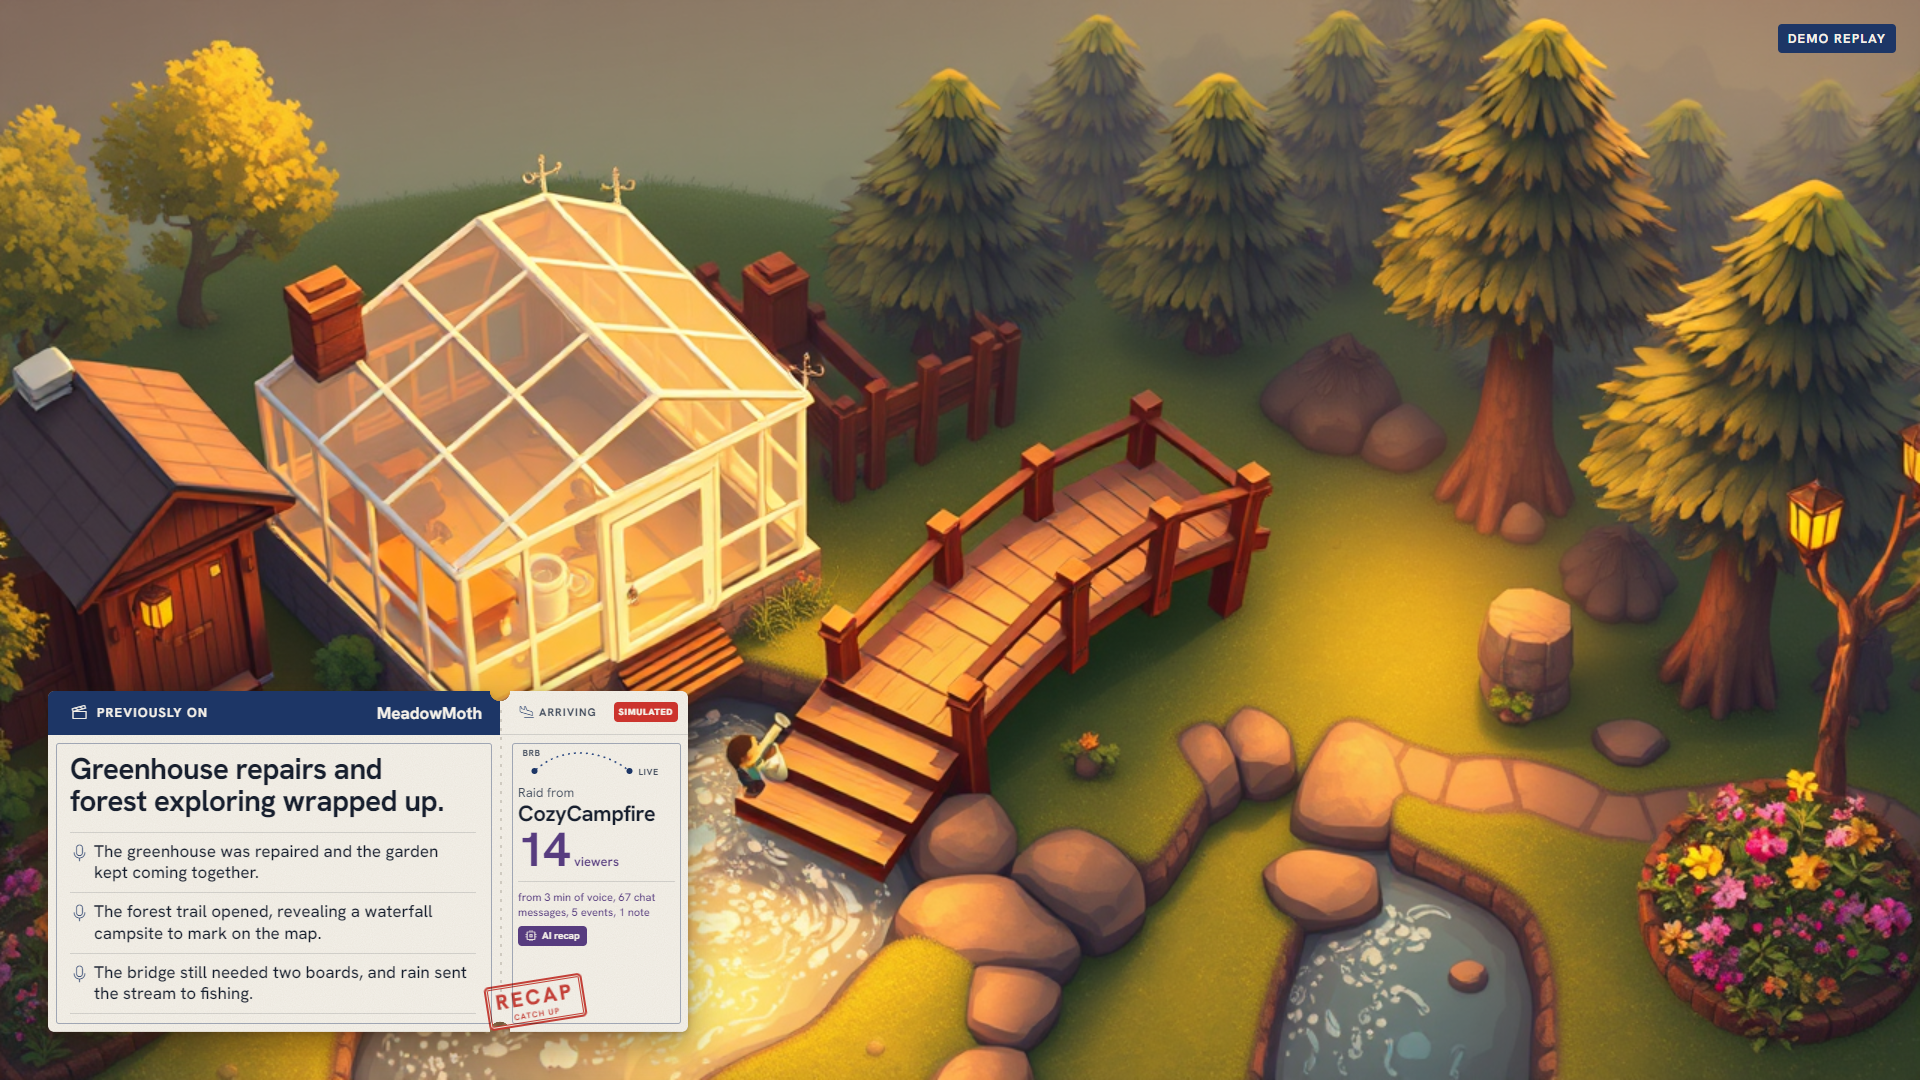
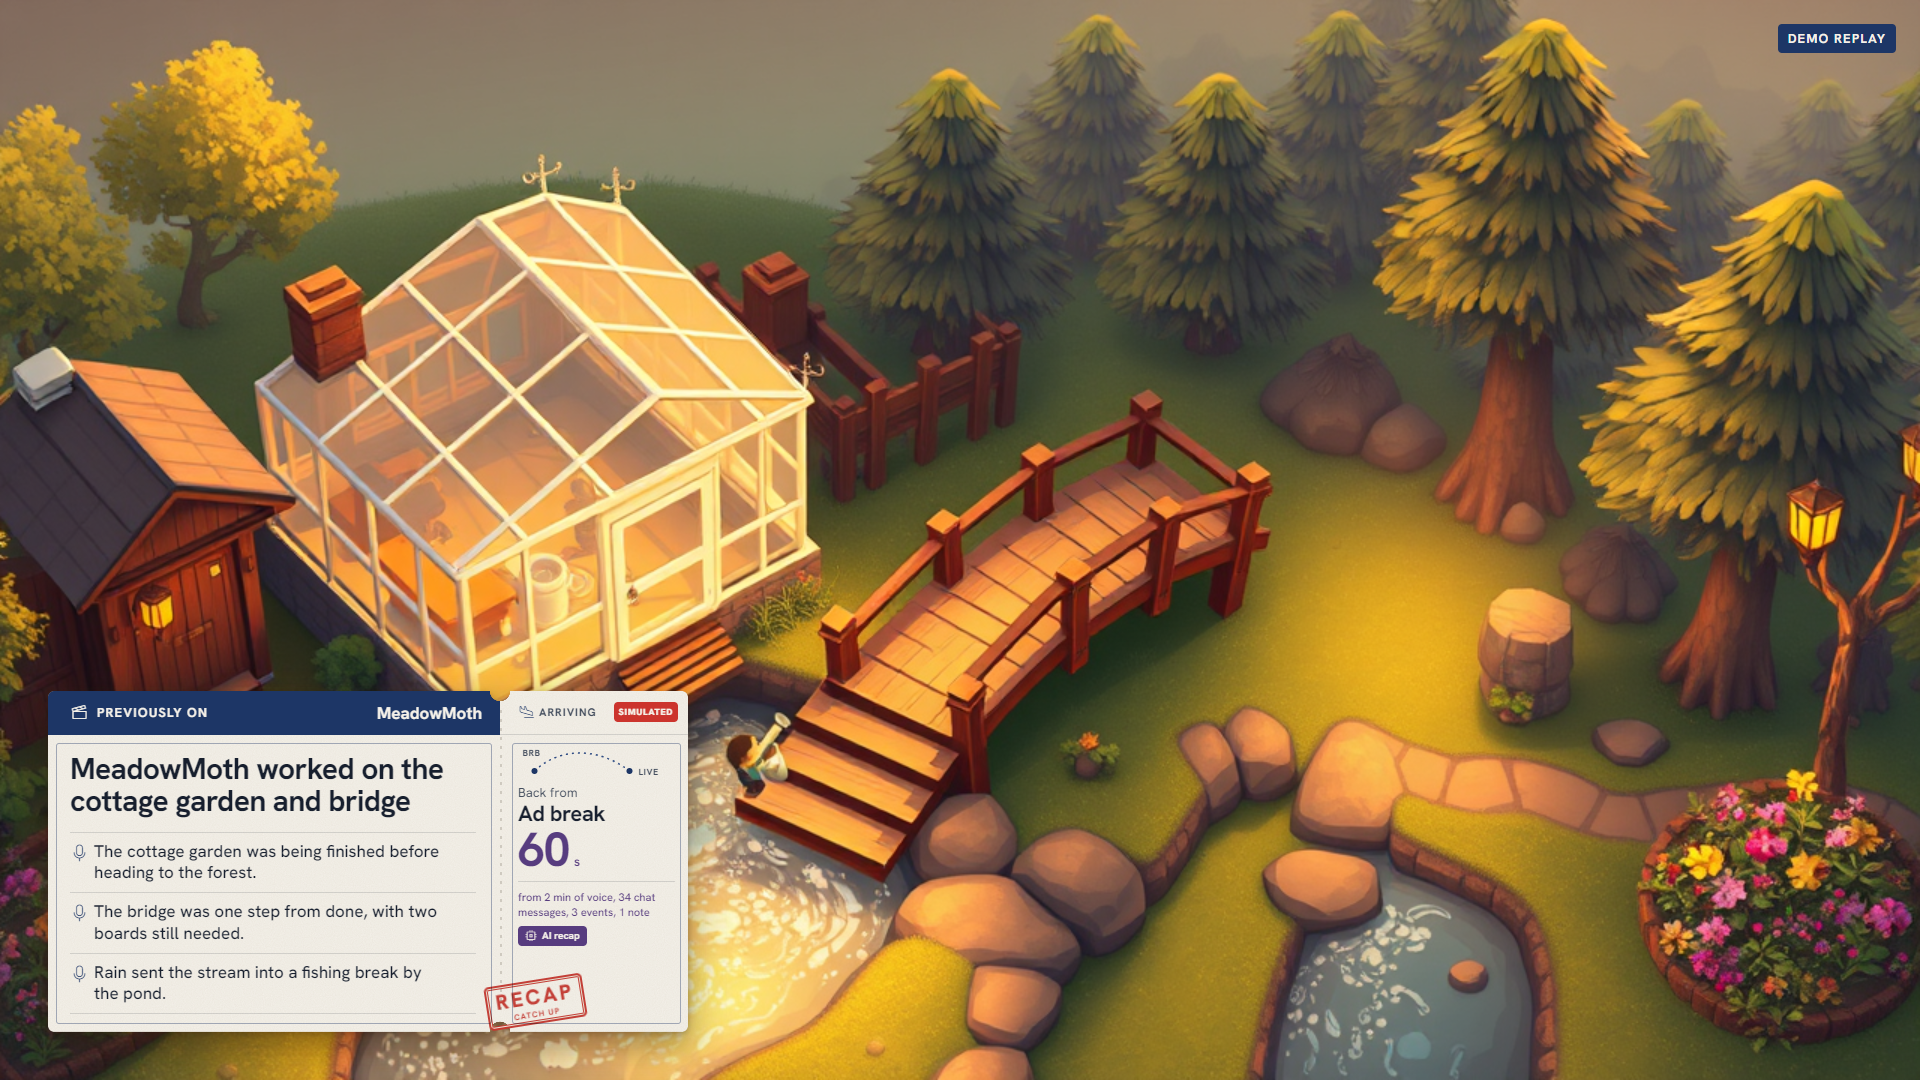
docs: prompts 9 and 10, eval after prompt 10, new README screenshots

Changed region(s): [[0.0312, 0.7028, 0.3438, 0.9472]]

diff --git a/BUILT_WITH_CODEX.md b/BUILT_WITH_CODEX.md
@@ -14,7 +14,7 @@ Every line of product code in this repository was written by OpenAI Codex in tha
 
 At runtime, the recaps come from the OpenAI Responses API. The hackathon rules ask for Codex to build the project. They do not restrict which model the product calls.
 
-## The eight prompts
+## The ten prompts
 
 The prompt records are in [`docs/codex-prompts/`](docs/codex-prompts/). Each one started with what the review of the previous block found.
 
@@ -26,8 +26,10 @@ The prompt records are in [`docs/codex-prompts/`](docs/codex-prompts/). Each one
 | 4 | [Review fixes](docs/codex-prompts/04-review-fixes.md) | Fixes for the browser review, model in demo mode, log layout | First live test on Twitch |
 | 5 | [Live test fixes](docs/codex-prompts/05-live-test-fixes.md) | One clock for all sources, the bot ignores its own replies, cleaner chat line and headlines | Live raid test |
 | 6 | [Keepalive and commands](docs/codex-prompts/06-keepalive-and-commands.md) | Keepalive grace period, `!` commands kept out of recaps, welcome ticket when a raid has nothing to recap | The recap repeated the raid that the stub already shows |
-| 7 | [Docs and live log](docs/codex-prompts/07-docs-and-live-log.md) | Trigger excluded from the model's sources, `results/live-cards.jsonl`, README, JUDGE.md, license | |
-| 8 | [OpenAI recap and approval settings](docs/codex-prompts/08-openai-and-approval.md) | Responses API, configurable approval hold and timer, judge-facing README updates | |
+| 7 | [Docs and live log](docs/codex-prompts/07-docs-and-live-log.md) | Trigger excluded from the model's sources, `results/live-cards.jsonl`, README, JUDGE.md, license | A blind review of the README asked for the late viewer first and visible proof, and a simulated raid in the demo still repeated the raid |
+| 8 | [OpenAI recap and approval settings](docs/codex-prompts/08-openai-and-approval.md) | Responses API, configurable approval hold and timer, judge-facing README updates | With the real model, ad-break cards recapped the raid and follows instead of the stream |
+| 9 | [Recap focus](docs/codex-prompts/09-recap-focus.md) | Twitch events kept out of recap content, headlines without a period, hold-mode stub | Simulate ad break showed a raw Node error, and the demo no longer produced ad-break cards |
+| 10 | [Ad break fixes](docs/codex-prompts/10-ad-break-fixes.md) | Serializable ad-break result, plain panel errors, demo replay on the live clock, ad-break window that widens to 10 minutes, a log line when a card is dropped | Checked in the browser: all four triggers produce a card in the demo |
 
 ## Commits
 

diff --git a/docs/codex-prompts/10-ad-break-fixes.md b/docs/codex-prompts/10-ad-break-fixes.md
@@ -1,0 +1,10 @@
+# Prompt 10
+
+Sent verbatim to Codex in session `01a174cd-3a2a-7f21-a9bf-1289a1e0b57a`.
+
+
+Browser review of `npm run demo` after prompt 9 found two problems with the ad break, which is now the lead trigger in the README.
+
+1. **Simulate ad break shows a raw Node error.** Clicking "Simulate ad break (60 s)" in the panel shows "Converting circular structure to JSON --> starting at object with constructor 'Timeout' ...". `handleAdBreak` returns and emits `{ payload, scheduledAt, timer }`, and the timer cannot be serialized (the SSE broadcast and the HTTP response both fail; the demo log prints "Demo trigger error" for the scheduled ad break too). Keep the timer internal; return and emit only serializable data. Separately, the server's catch block sends `error.message` to the panel as is. For unexpected errors, send a plain message ("Something went wrong. Check the terminal for details.") and log the detail in the terminal; keep the specific messages for validation errors you raise on purpose.
+2. **No ad-break card appears in the demo.** Three simulated ad breaks (the demo's own at 63 s and two from the panel) produced no card in more than 90 s; raid, !catchup and break cards worked. Before prompt 9 the ad-break card existed but talked about the raid. Find the root cause and report it. My guess, to verify: `replayFixture` timestamps items about a quarter of the fixture span in the past, so the ad-break window (3 minutes before the ad to its end) holds only events, and since prompt 9 events are not recap content, the card is dropped silently. Fix the demo so the ad-break window has voice, notes or chat. For real streams: if the 3-minute window has no voice, notes or chat, widen it to the last 10 minutes before dropping the card. When a card is dropped for lack of content, log one line in the terminal and show a short line in the panel log ("Ad break: nothing new to recap"), so the streamer knows the trigger fired.
+3. Tests: `/api/simulate` with `ad-break` returns 200 with JSON; the demo's simulated ad break produces a card; the widened window; the dropped-card log line. Run `npm test` and report. Do not commit.

diff --git a/docs/codex-prompts/09-recap-focus.md b/docs/codex-prompts/09-recap-focus.md
@@ -1,0 +1,12 @@
+# Prompt 9
+
+Sent verbatim to Codex in session `01a174cd-3a2a-7f21-a9bf-1289a1e0b57a`.
+
+
+Demo run with the real OpenAI model (gpt-5.4-mini). The raid card was good ("Greenhouse repairs and forest exploring wrapped up." with three stream bullets), but two ad-break cards came out as "A raid landed as the ad break began." and "A raid brings 14 viewers to the stream.": Twitch events still in the window (an earlier raid, follows, the ad break) take over the recap, which is useless for a viewer coming back from an ad.
+
+1. Events (raid, follow, ad break) are not recap content. Send only voice, notes and chat to the model and to the fallback bullets; keep events in the buffer and in the provenance counts only. If no voice, notes or chat remain, behave like the empty-raid case (welcome ticket for a raid; no card for the other triggers). Test it.
+2. Headlines end without a period. Tell the model and strip a trailing period in code.
+3. In "Hold until I approve" mode, the pending card's stub shows only a small "Hold until I approve" line in a large empty area. Show the same stub layout as the timer, with the hourglass icon and a large "Hold" in place of the countdown, and no meter.
+
+Run `npm test` and report. Do not commit.

diff --git a/docs/VERIFICATION.md b/docs/VERIFICATION.md
@@ -21,4 +21,8 @@ Twitch's own raid settings blocked the first attempts: the receiving channel req
 - The welcome ticket for a raid with nothing to recap, and the recap wording after prompts 6 and 7, on a live channel.
 - Voice capture with the Web Speech API during a real stream.
 
+## Recap quality with the OpenAI model
+
+`npm run eval` on the synthetic fixture with `gpt-5.4-mini` (run on 2026-10-27 UTC, after prompt 10): 3 of 3 cards from the model (raid, `!catchup`, back from break), 9 of 9 bullets kept, 0 dropped by the source check, fallback rate 0, latency p50 2,738 ms and p95 3,429 ms, and the injected chat text was not repeated in any output. Three cards is a small sample: it shows the path works, not a quality benchmark. Results: [`results/eval-2026-10-27.json`](../results/eval-2026-10-27.json). The ad-break card is not in the eval; it was checked in the browser with `npm run demo`.
+
 Measured latencies from live runs go to `results/live-cards.jsonl`, and `npm run live-report` summarizes them. This file will be updated after the final recorded raid.

diff --git a/README.md b/README.md
@@ -70,7 +70,7 @@ Live tests are documented in [docs/VERIFICATION.md](docs/VERIFICATION.md). When 
 
 Codex session ID: `01a174cd-3a2a-7f21-a9bf-1289a1e0b57a`.
 
-The build ran in one Codex thread across eight prompts. Each prompt was written from the review of the previous block, and the resulting fixes were tested before the next prompt.
+The build ran in one Codex thread across ten prompts. Each prompt was written from the review of the previous block, and the resulting fixes were tested before the next prompt.
 
 More build details are in [BUILT_WITH_CODEX.md](BUILT_WITH_CODEX.md).
 
